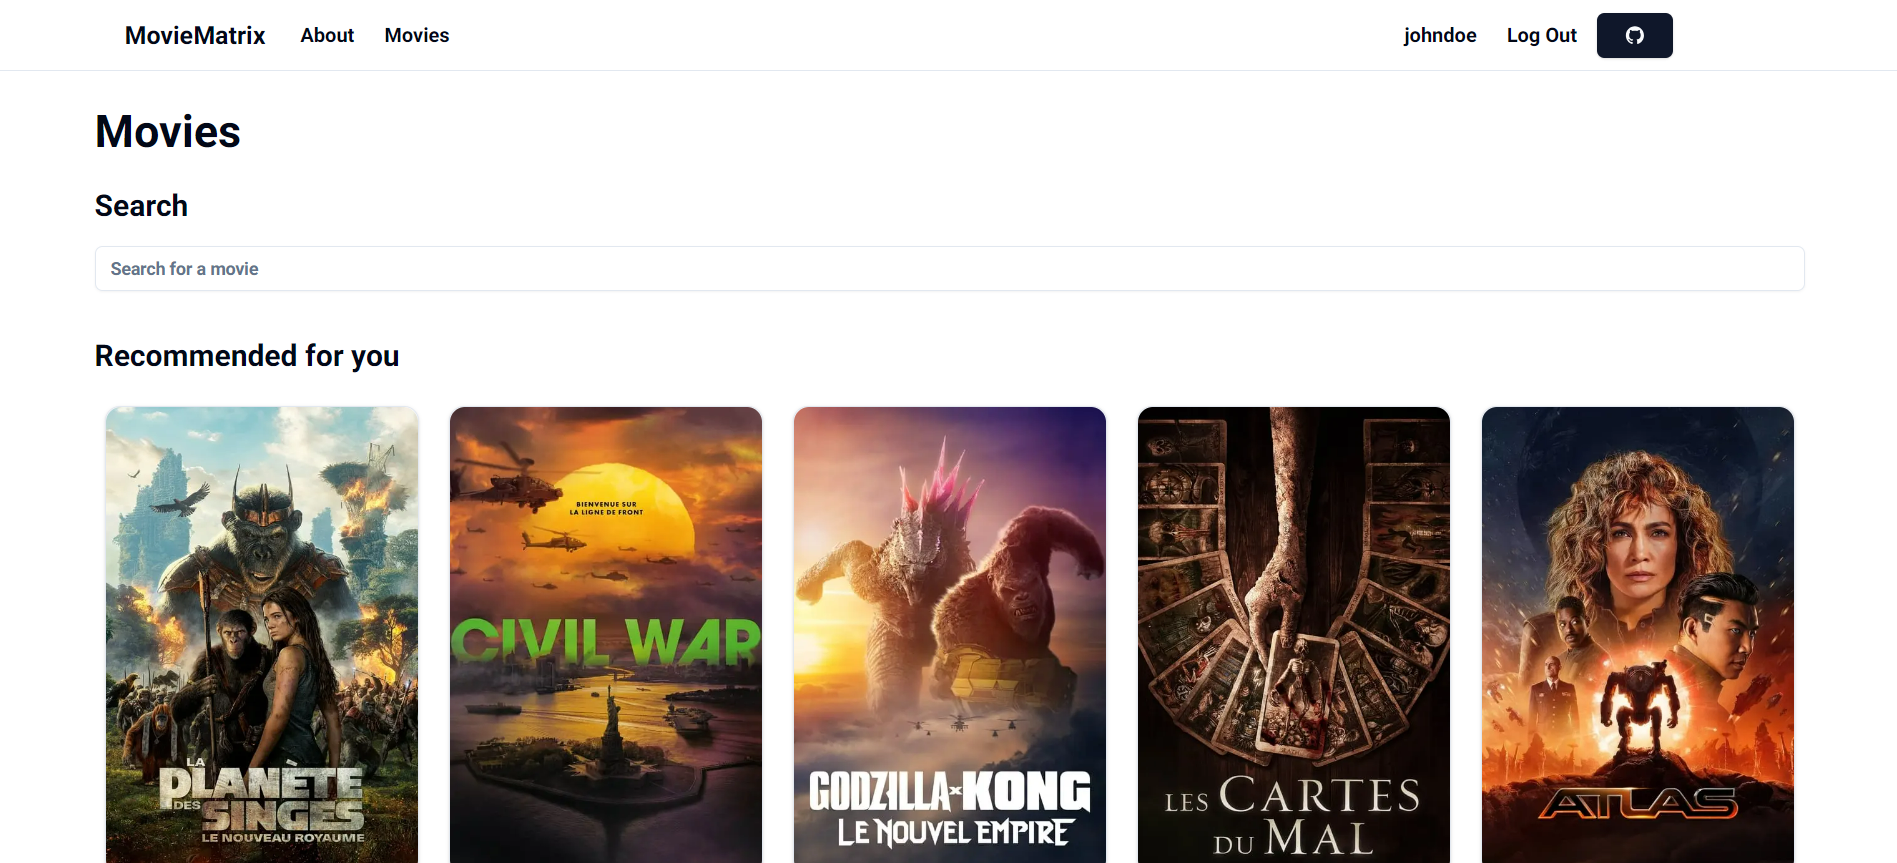
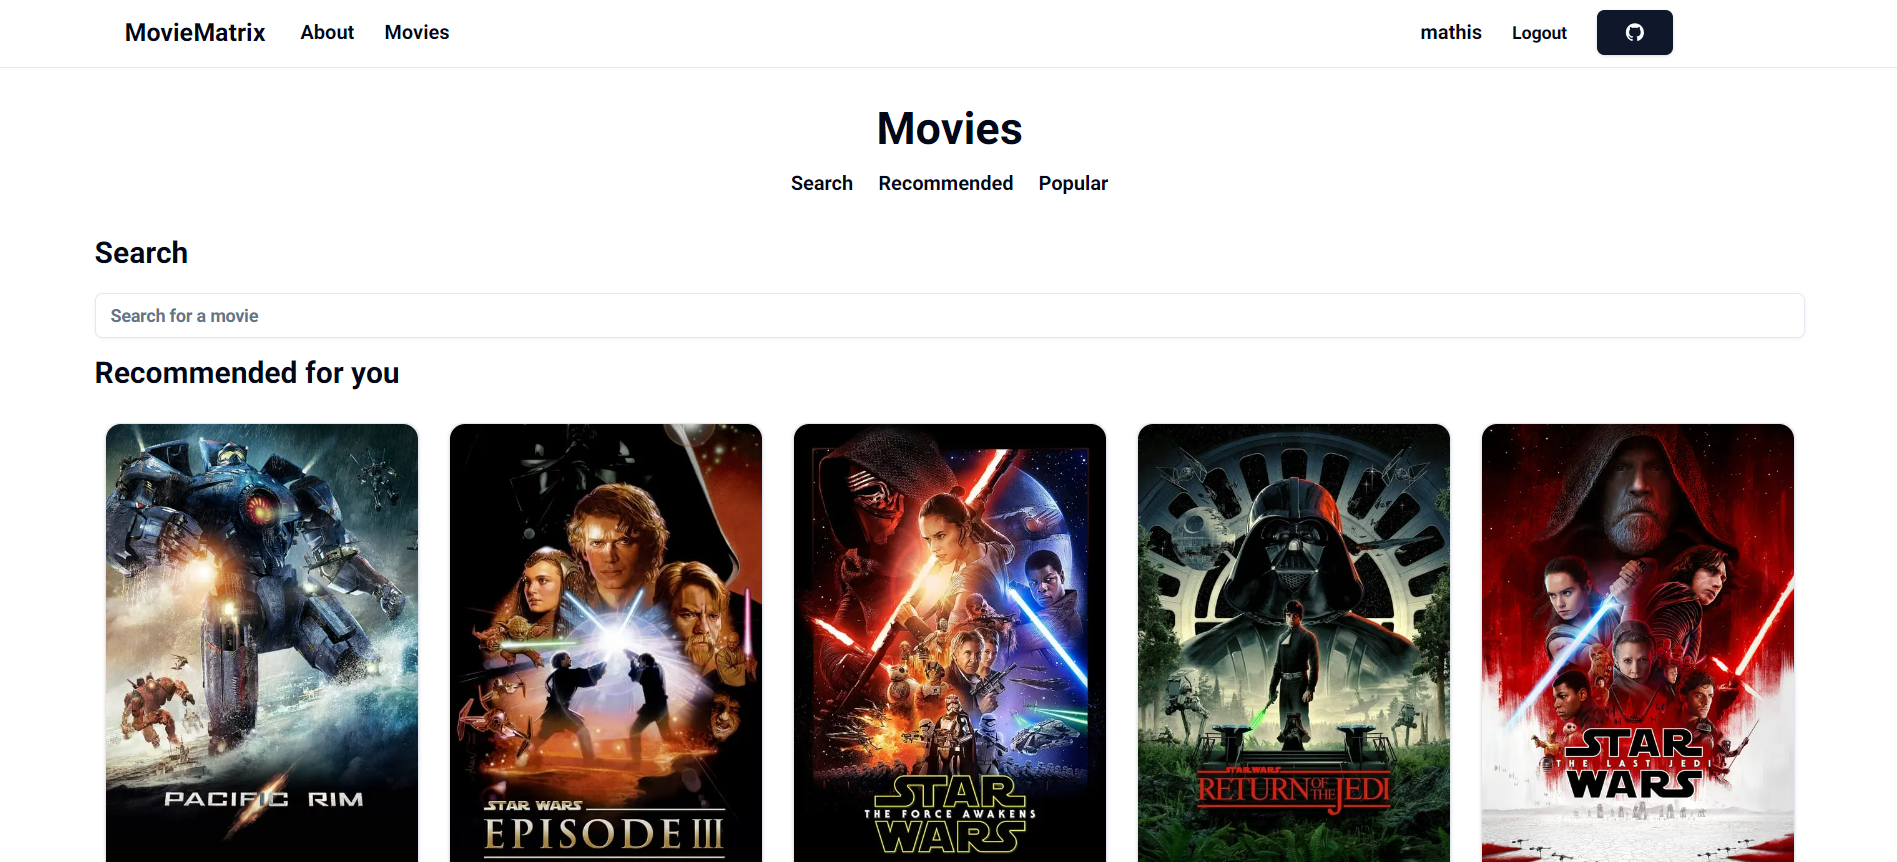
Update README.md

diff --git a/README.md b/README.md
@@ -28,9 +28,9 @@ Here, you can take advantage of the infinite scroll function to select a film fr
 
 #### Film info
 
-By clicking on a movie's card, you can view information about it, such as its rating, cast and synopsis.
+By clicking on a movie's card, you can view information about it, such as its rating, cast and synopsis, but also recommendations of similar movies.
 
-WIP
+![Movie Browser](./.github/images/movie_viewer.webp)
 
 ### Built with
 
@@ -55,6 +55,8 @@ export APP_THE_MOVIE_DB__API_KEY=your_tmdb_api_key
 -   [pnpm](https://pnpm.io/) (v9.1.4)
 -   [Docker](https://www.docker.com/)
 -   [protobuf](https://protobuf.dev/) (v27.0)
+-   [sqlx-cli](https://docs.rs/crate/sqlx-cli/0.5.7) (v0.5.7)
+-   [Libtorch](https://pytorch.org/cppdocs/installing.html) (v2.1.0)
 
 ### Install dependencies
 
@@ -72,7 +74,13 @@ export APP_THE_MOVIE_DB__API_KEY=your_tmdb_api_key
 
 ### Start the development server
 
-This will start the development server at `http://localhost:3000` and the API server at `http://localhost:5432`.
+First initialize the database. It will start a docker container based on postgres' Docker image on `http://localhost:5432`.
+
+```bash
+bash ./scripts/init_db.sh`
+```
+
+This will start the development server at `http://localhost:3000` and the API server at `http://localhost:4000`.
 
 ```bash
 pnpm dev
@@ -80,8 +88,16 @@ pnpm dev
 
 ### Build for production
 
+First build and start the Rust api:
+
 ```bash
-pnpm build
+cd ./api && cargo build -r && ./target/release/api
+```
+
+Then build the Next.js server and run it:
+
+```bash
+cd ./web && pnpm build && pnpm start
 ```
 
 [contributors-shield]: https://img.shields.io/github/contributors/mathisbot/movie-matrix.svg?style=for-the-badge
